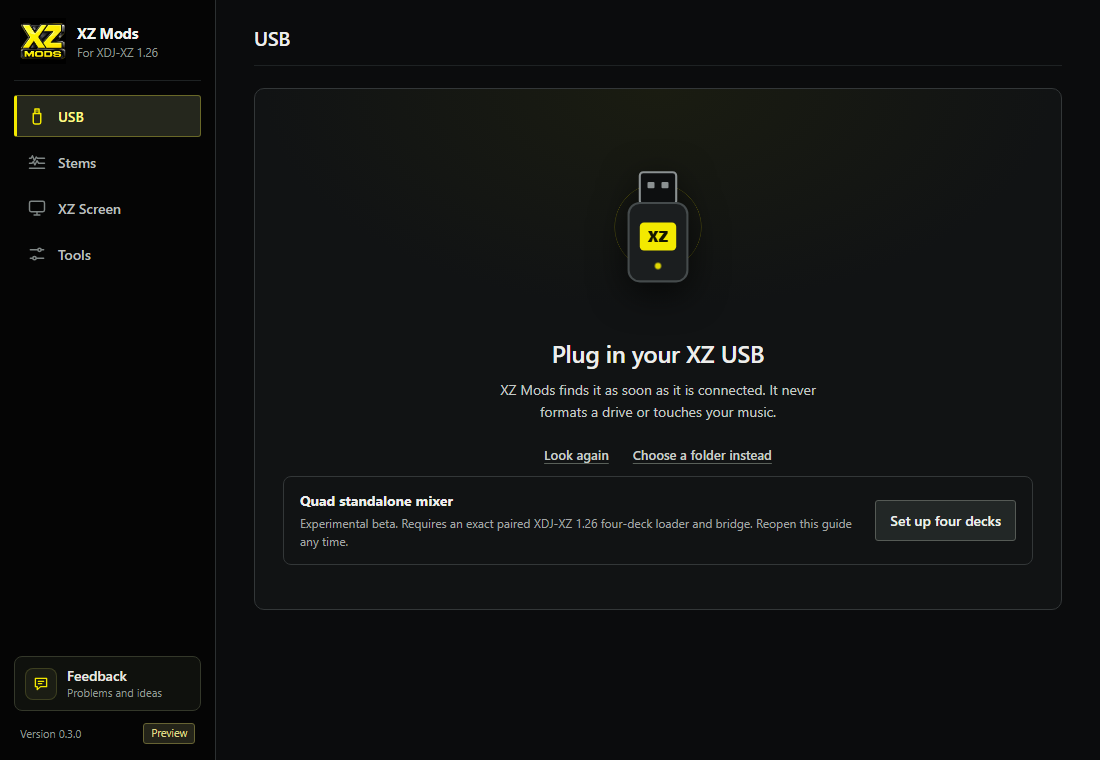
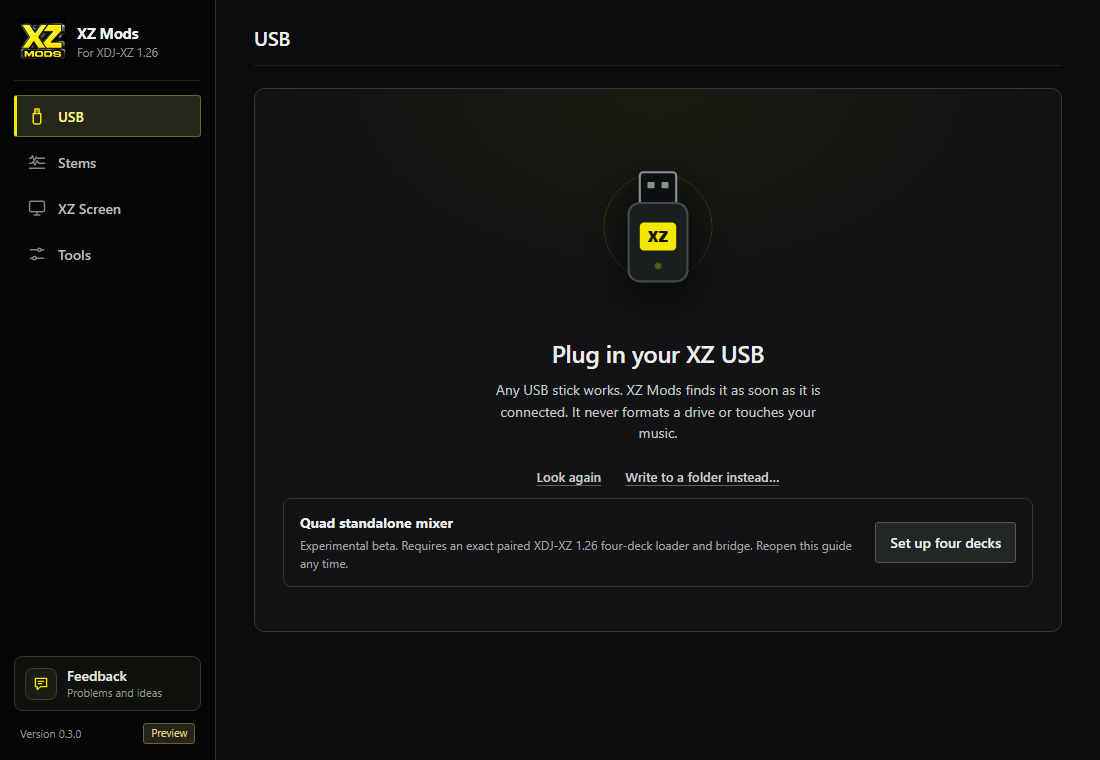
Manual: the USB list, Back in every guide step, and the window size
The desktop app chapter gains Choose a USB or a folder: the list shows every
USB the app can write to with its file system, Write to a folder instead...
last, and one line for the drives it leaves out; Change USB, Cancel and Esc
all come back to it, and the USB you left does not reopen by itself. The
install guide describes the bar every step ends in (Back, the way forward,
Esc), Cancel to the USB list, and no Back while writing or on the done screen.
Callouts for Back, Next, Write to USB, Done and Eject USB point at the bar.
Getting started says to pick your USB from the list and that Back returns a
step. Around the app notes the window fits the screen and the narrow rail.

The USB and install screenshots are retaken from verify_setup_wizard at
1100 x 760; usb-list is new. Not accepted: build_manual.py check lists them
for review.

Changed region(s): [[0.2782, 0.6355, 0.7727, 0.7566], [0.4636, 0.4842, 0.7418, 0.6355], [0.8036, 0.6658, 0.9273, 0.7263]]

diff --git a/manual/chapters/desktop-app.md b/manual/chapters/desktop-app.md
@@ -21,16 +21,32 @@ The rail on the left has four sections for your work and, at its foot, Feedback.
 
 The top of the rail names the player firmware the app prepares USBs for, XDJ-XZ 1.26. The app version is at the bottom.
 
+The app opens as large as its pages need, but never larger than your screen. In a narrow window the rail shows only its icons. Point at one to see its name.
+
 ## USB
 
 USB is the first page. Plug in your XZ USB, or any USB stick, and the app finds it. When only one USB is connected, it opens by itself.
 
 ```gallery
-app:usb-plug-in No USB yet. The app keeps looking, so plug one in. Choose a folder instead prepares a folder on this computer
+app:usb-plug-in No USB yet. The app keeps looking, so plug one in. Write to a folder instead… prepares a folder on this computer
 app:usb-choose Several USBs. Each card says whether XZ Mods is on it yet and whether it holds a Rekordbox export
 ```
 
-Look again searches at once. **Choose a folder instead** prepares a folder on this computer. The app then reminds you to copy the finished `autoexec.bin` to the USB yourself.
+### Choose a USB or a folder
+
+The USB list shows every connected USB the app can write XZ Mods to. Any file system works, FAT32 or exFAT, and each card shows it beside the drive letter. Choose a card to open that USB.
+
+```figure app:usb-list XZ Mods app · USB
+Two USBs and a folder to choose from. One line names the drives the app leaves out.
+1 @ 640,190 USB | A USB the app can write to, with its drive and file system.
+2 @ 640,358 Write to a folder instead… | Prepares a folder on this computer instead of a USB.
+3 @ 762,413 Drives not shown | A read-only USB, or a disk of this computer, with the reason.
+4 @ 366,467 Look again | Searches for USBs at once.
+```
+
+**Write to a folder instead…** puts the loader and its settings in a folder on this computer. Copy everything in it to the top of a USB stick afterward. Games are added only when you write to a USB itself.
+
+The list comes back whenever you step back from a USB: **Change USB** on the dashboard, **Cancel** in a guide, or **Esc** on the dashboard. The USB you left does not open by itself again until you plug in or remove a drive, so you can pick another one. Its card is still selected, and Enter opens it again.
 
 ### The USB dashboard
 
@@ -41,7 +57,7 @@ A fresh USB. XZ Mods is not on it yet, so the one action is Install XZ Mods.
 1 @ 150,186 Sections | USB, Stems, XZ Screen and Tools.
 2 @ 492,121 USB | The USB's name and drive.
 3 @ 662,162 Free space | The file system, the free space and a bar of how full the USB is.
-4 @ 988,100 Change USB | Goes back to the list of USBs.
+4 @ 988,100 Change USB | Goes back to the USB list, to choose another USB or a folder.
 5 @ 606,228 Status | What XZ Mods found on this USB.
 6 @ 494,324 Action | The one thing to do next. Here it installs XZ Mods.
 7 @ 364,442 DJ profile | The active profile on the USB. Add or Edit opens the profile step.
@@ -71,7 +87,9 @@ app:usb-choose-build No build chosen yet. Use the newest build picks the one tha
 
 ### Install or update XZ Mods
 
-**Install XZ Mods** and **Update USB** open a short guide. The steps that do not apply are left out, so the count at the top changes. **Cancel** returns to the dashboard without writing anything.
+**Install XZ Mods** and **Update USB** open a short guide. The steps that do not apply are left out, so the count at the top changes.
+
+Every step ends in the same bar. **Back** on the left returns to the step before; from the first step it returns to the dashboard. The way forward is on the right. **Esc** does the same as Back. **Cancel** at the top leaves the guide without writing anything and shows the USB list, so you can choose another USB or a folder. While the USB is written there is no Back, and the done screen has **Done** instead, because a write cannot be undone.
 
 1. **Your DJ profile.** Appears when the USB has no profile yet. Type your name and add a logo, or choose **Skip for now** and add it later.
 2. **Choose the screen the XZ shows.** New interface (MODERN) or Standard XDJ-XZ interface (CLASSIC). See [Getting started](getting-started#choose-modern-or-classic).
@@ -93,12 +111,14 @@ Choose the screen the XZ shows. The selected card plays a short clip of it.
 3 @ 486,452 New interface | MODERN. XZ Mods draws the whole player screen.
 4 @ 1012,332 Standard XDJ-XZ interface | CLASSIC. The player's own screen with MODS added. Classic themes can restyle it.
 5 @ 782,560 Switch later | How to change your mind on the player.
+6 @ 372,728 Back | The step before. From the first step, the dashboard.
+7 @ 945,728 Next | The next step.
 ```
 
 > **Note.** The two small pictures under the cards show an older version of the MODS menu. On the player, INTERFACE is on the [SCREEN](screen-and-themes#modern-and-classic) page.
 
 ```figure app:install-review XZ Mods app · Install XZ Mods
-Ready to write, with Change games open.
+Ready to write, with Change games open. Under the list, a line says music, playlists and prepared stems are never touched.
 1 @ 580,227 Loader | Adds the XZ Mods loader, or backs up and updates it.
 2 @ 706,273 Games | The free games that will be copied.
 3 @ 540,319 Interface | The screen the XZ starts with.
@@ -107,12 +127,13 @@ Ready to write, with Change games open.
 6 @ 1040,501 Add all free games | Ticks every download. None unticks the ones not on the USB yet.
 7 @ 638,554 Game state | WILL ADD, NOT ON USB, or already on the USB.
 8 @ 890,555 Add | Ticks one game. The size is what it adds to the USB.
-9 @ 632,737 Your files | Music, playlists and prepared stems are never touched.
+9 @ 372,728 Back | The step before.
+10 @ 890,728 Write to USB | Writes everything in the checklist.
 ```
 
 Beat Arcade, Wave Rider, Rhythm Lab and Static Surfer are built into the loader and always come with it. Doom shareware, Chex Quest and Freedoom Phase 2 are free downloads that the app checks and copies to `VJTOOLS\Games` on the USB. A fresh USB gets every free game unless you untick it. An update keeps the games the USB already has and adds none on its own. Under the checklist, **Eject the USB when writing finishes** ejects it for you so you can take it straight to the XZ.
 
-Press **Write to USB** at the bottom of the checklist. If a newer build needs a setting changed on the USB, the app first asks in **Adjust USB settings for this version**. It saves a copy of the settings file first and puts it back if the loader write fails.
+Press **Write to USB** in the bar under the checklist. If a newer build needs a setting changed on the USB, the app first asks in **Adjust USB settings for this version**. It saves a copy of the settings file first and puts it back if the loader write fails.
 
 ```figure app:install-done XZ Mods app · Install XZ Mods
 Your USB is ready.
@@ -121,9 +142,9 @@ Your USB is ready.
 3 @ 1020,340 Set up four decks | Opens the cable guide again.
 4 @ 757,408 Support XZ Mods | The optional support page.
 5 @ 372,455 On the XZ | What to do with the USB next.
-6 @ 333,604 Eject USB | Ejects the USB so you can unplug it.
-7 @ 480,636 Done | Back to the dashboard.
-8 @ 505,684 Eject by itself | Ejects the USB on its own after the next write.
+6 @ 1062,728 Eject USB | Ejects the USB so you can unplug it.
+7 @ 808,728 Done | Back to the dashboard.
+8 @ 505,629 Eject by itself | Ejects the USB on its own after the next write.
 ```
 
 If a game download failed, **Retry the failed games** tries only those, and the USB is not ejected until you have. When the write also saved a DJ profile, **Make the profile track** opens the profile track steps.

diff --git a/manual/chapters/getting-started.md b/manual/chapters/getting-started.md
@@ -40,9 +40,9 @@ The app downloads the official firmware it needs from the manufacturer and check
 You prepare the USB in the XZ Mods app on your computer. It does not format the drive or touch your music.
 
 1. Install the XZ Mods app and open it.
-2. Plug in your USB. The app finds it and opens it.
+2. Plug in your USB. The app finds it and opens it. With several USBs plugged in, choose yours from the list.
 3. Choose **Install XZ Mods**.
-4. Follow the short guide: your DJ profile, the screen the XZ starts with, the four-deck cable guide, then a checklist of what it will write.
+4. Follow the short guide: your DJ profile, the screen the XZ starts with, the four-deck cable guide, then a checklist of what it will write. **Back** returns to the step before.
 5. Choose **Write to USB**, then **Eject USB**.
 
 ```figure app:install-review XZ Mods app · Install XZ Mods
@@ -50,7 +50,7 @@ The checklist before the write. Music, playlists and prepared stems are never to
 1 @ 580,227 Loader | XZ Mods itself.
 2 @ 706,273 Games | Free games the app downloads and checks.
 3 @ 540,319 Interface | The screen the XZ starts with.
-4 @ 632,737 Your files | What the write never changes.
+4 @ 890,728 Write to USB | Writes everything in the checklist.
 ```
 
 Every step of the app is in [The XZ Mods app](desktop-app#usb). To add stems to your tracks, see [Stems](stems).
